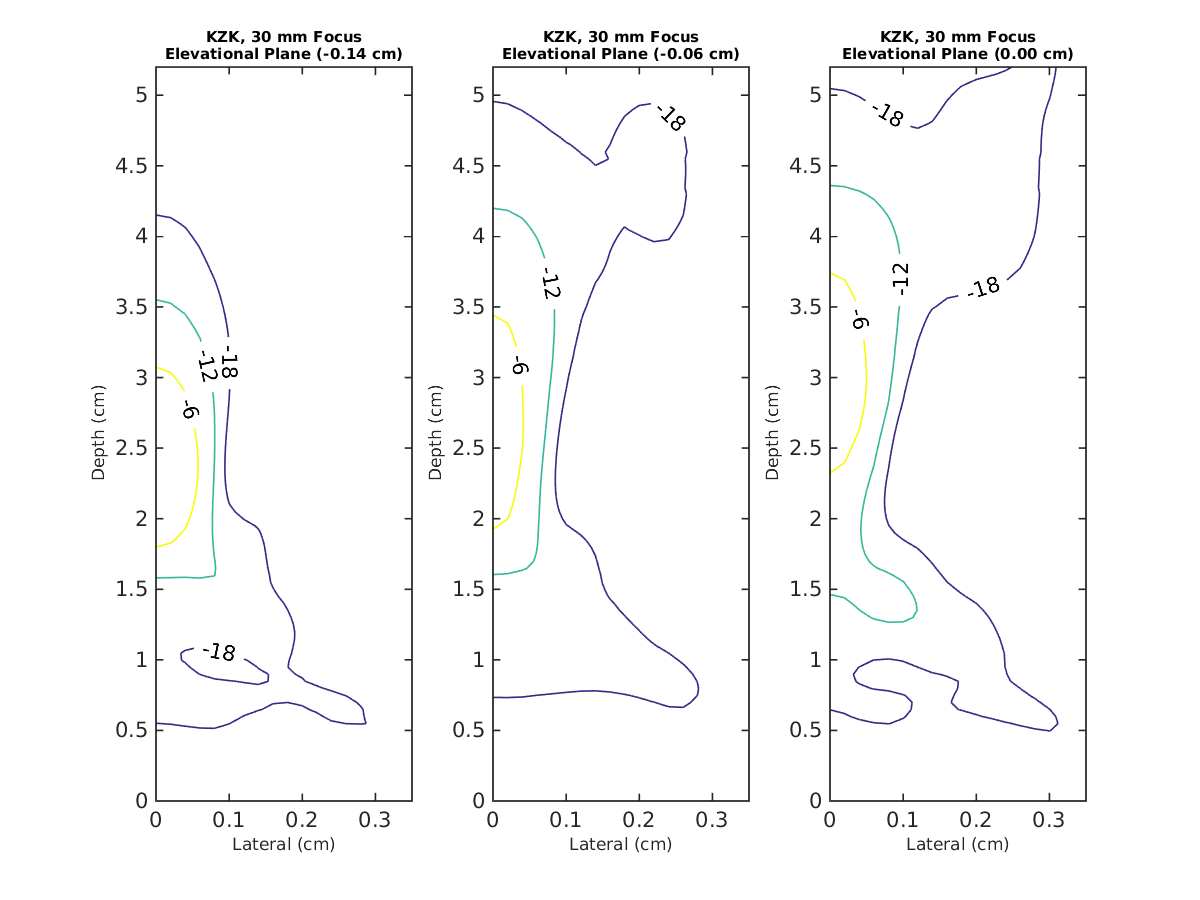
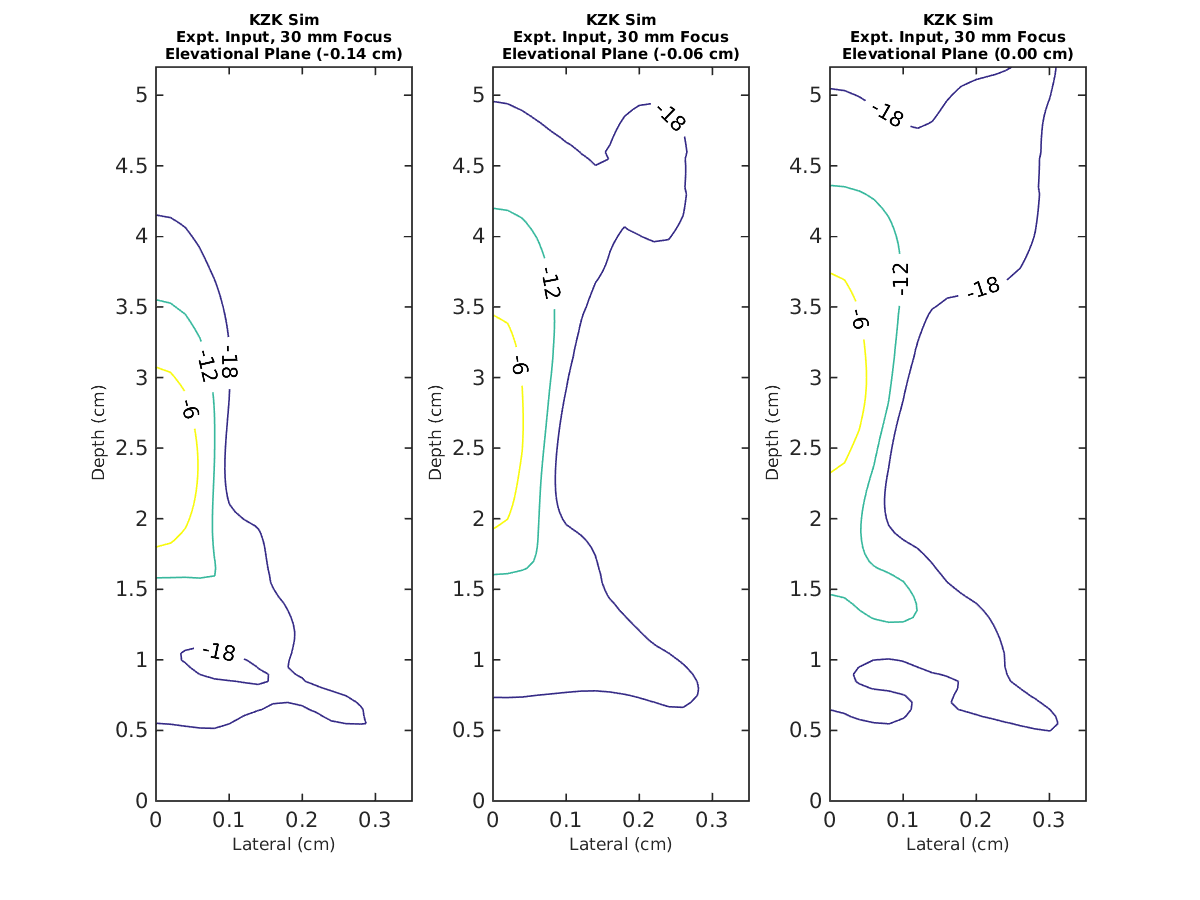
re-made contour plots so that titles stopped overlapping

Changed region(s): [[0.7092, 0.0, 0.8942, 0.0622], [0.4317, 0.0, 0.6167, 0.0622], [0.1542, 0.0, 0.3392, 0.0622]]

diff --git a/comparisons/focus30mm/linear_compare.m b/comparisons/focus30mm/linear_compare.m
@@ -95,7 +95,7 @@ nln = 10;
 % because KZK intensity field is maximum in 2.3 cm plane and Field II
 % intensity field is max in 3.2 cm plane.
 figure(3);
-contourplots('kzk_30mm_depth.png', ['KZK, Expt. Input, 30 mm Focus' nln 'Depth Plane'],...
+contourplots('kzk_30mm_depth.png', ['KZK Sim' nln 'Expt. Input, 30 mm Focus' nln 'Depth Plane'],...
               intensity_kzk_30mm, kzk_ele, kzk_lat, kzk_depth, 3,...
               [47 56 65], [0 0.15 -.5 0]);
 
@@ -104,7 +104,7 @@ contourplots('kzk_30mm_depth.png', ['KZK, Expt. Input, 30 mm Focus' nln 'Depth P
 % was chosen because both KZK and Field II intensity fields were maximum at
 % 0.00 cm lateral position.
 figure(4);
-contourplots('kzk_30mm_lateral.png', ['KZK, Expt. Input, 30 mm Focus' nln 'Lateral Plane'],...
+contourplots('kzk_30mm_lateral.png', ['KZK Sim' nln 'Expt. Input, 30 mm Focus' nln 'Lateral Plane'],...
              intensity_kzk_30mm, kzk_ele, kzk_lat, kzk_depth, 2,...
              [1 5 9], [-.51 0 0 5.2]);
 
@@ -113,7 +113,7 @@ contourplots('kzk_30mm_lateral.png', ['KZK, Expt. Input, 30 mm Focus' nln 'Later
 % planes were chosen because KZK intensity field is maximum in -0.14 cm 
 % plane while the Field II intensity field is max in 0.00 cm plane.
 figure(5);
-contourplots('kzk_30mm_elevational.png', ['KZK, Expt. Input, 30 mm Focus' nln 'Elevational Plane'],...
+contourplots('kzk_30mm_elevational.png', ['KZK Sim' nln 'Expt. Input, 30 mm Focus' nln 'Elevational Plane'],...
              intensity_kzk_30mm, kzk_ele, kzk_lat, kzk_depth, 1,...
              [44 48 51], [0 .35 0 5.2]);  
 
@@ -145,7 +145,7 @@ contourplots('field2_30mm_elevational.png', ['Field II, 30 mm Focus' nln 'Elevat
 % because KZK intensity field is maximum in 2.3 cm plane and Field II
 % intensity field is max in 3.2 cm plane.
 figure(9);
-contourplots('kzk_f2_input_30mm_depth.png', ['KZK, Field II Inputs, 30 mm Focus' nln 'Depth Plane'],...
+contourplots('kzk_f2_input_30mm_depth.png', ['KZK Sim' nln 'Field II Inputs, 30 mm Focus' nln 'Depth Plane'],...
               intensity_kzk_finput_30mm, kzk_ele, kzk_lat, kzk_depth, 3,...
               [47 56 65], [0 0.15 -.5 0]);
 
@@ -154,7 +154,7 @@ contourplots('kzk_f2_input_30mm_depth.png', ['KZK, Field II Inputs, 30 mm Focus'
 % was chosen because both KZK and Field II intensity fields were maximum at
 % 0.00 cm lateral position.
 figure(10);
-contourplots('kzk_f2_input_30mm_lateral.png', ['KZK, Field II Inputs, 30 mm Focus' nln 'Lateral Plane'],...
+contourplots('kzk_f2_input_30mm_lateral.png', ['KZK Sim' nln 'Field II Inputs, 30 mm Focus' nln 'Lateral Plane'],...
              intensity_kzk_finput_30mm, kzk_ele, kzk_lat, kzk_depth, 2,...
              [1 5 9], [-.51 0 0 5.2]);
 
@@ -163,6 +163,6 @@ contourplots('kzk_f2_input_30mm_lateral.png', ['KZK, Field II Inputs, 30 mm Focu
 % planes were chosen because KZK intensity field is maximum in -0.14 cm 
 % plane while the Field II intensity field is max in 0.00 cm plane.
 figure(11);
-contourplots('kzk_f2_input_30mm_elevational.png', ['KZK, Field II Inputs, 30 mm Focus' nln 'Elevational Plane'],...
+contourplots('kzk_f2_input_30mm_elevational.png', ['KZK Sim' nln 'Field II Inputs, 30 mm Focus' nln 'Elevational Plane'],...
              intensity_kzk_finput_30mm, kzk_ele, kzk_lat, kzk_depth, 1,...
              [44 48 51], [0 .35 0 5.2]); 
